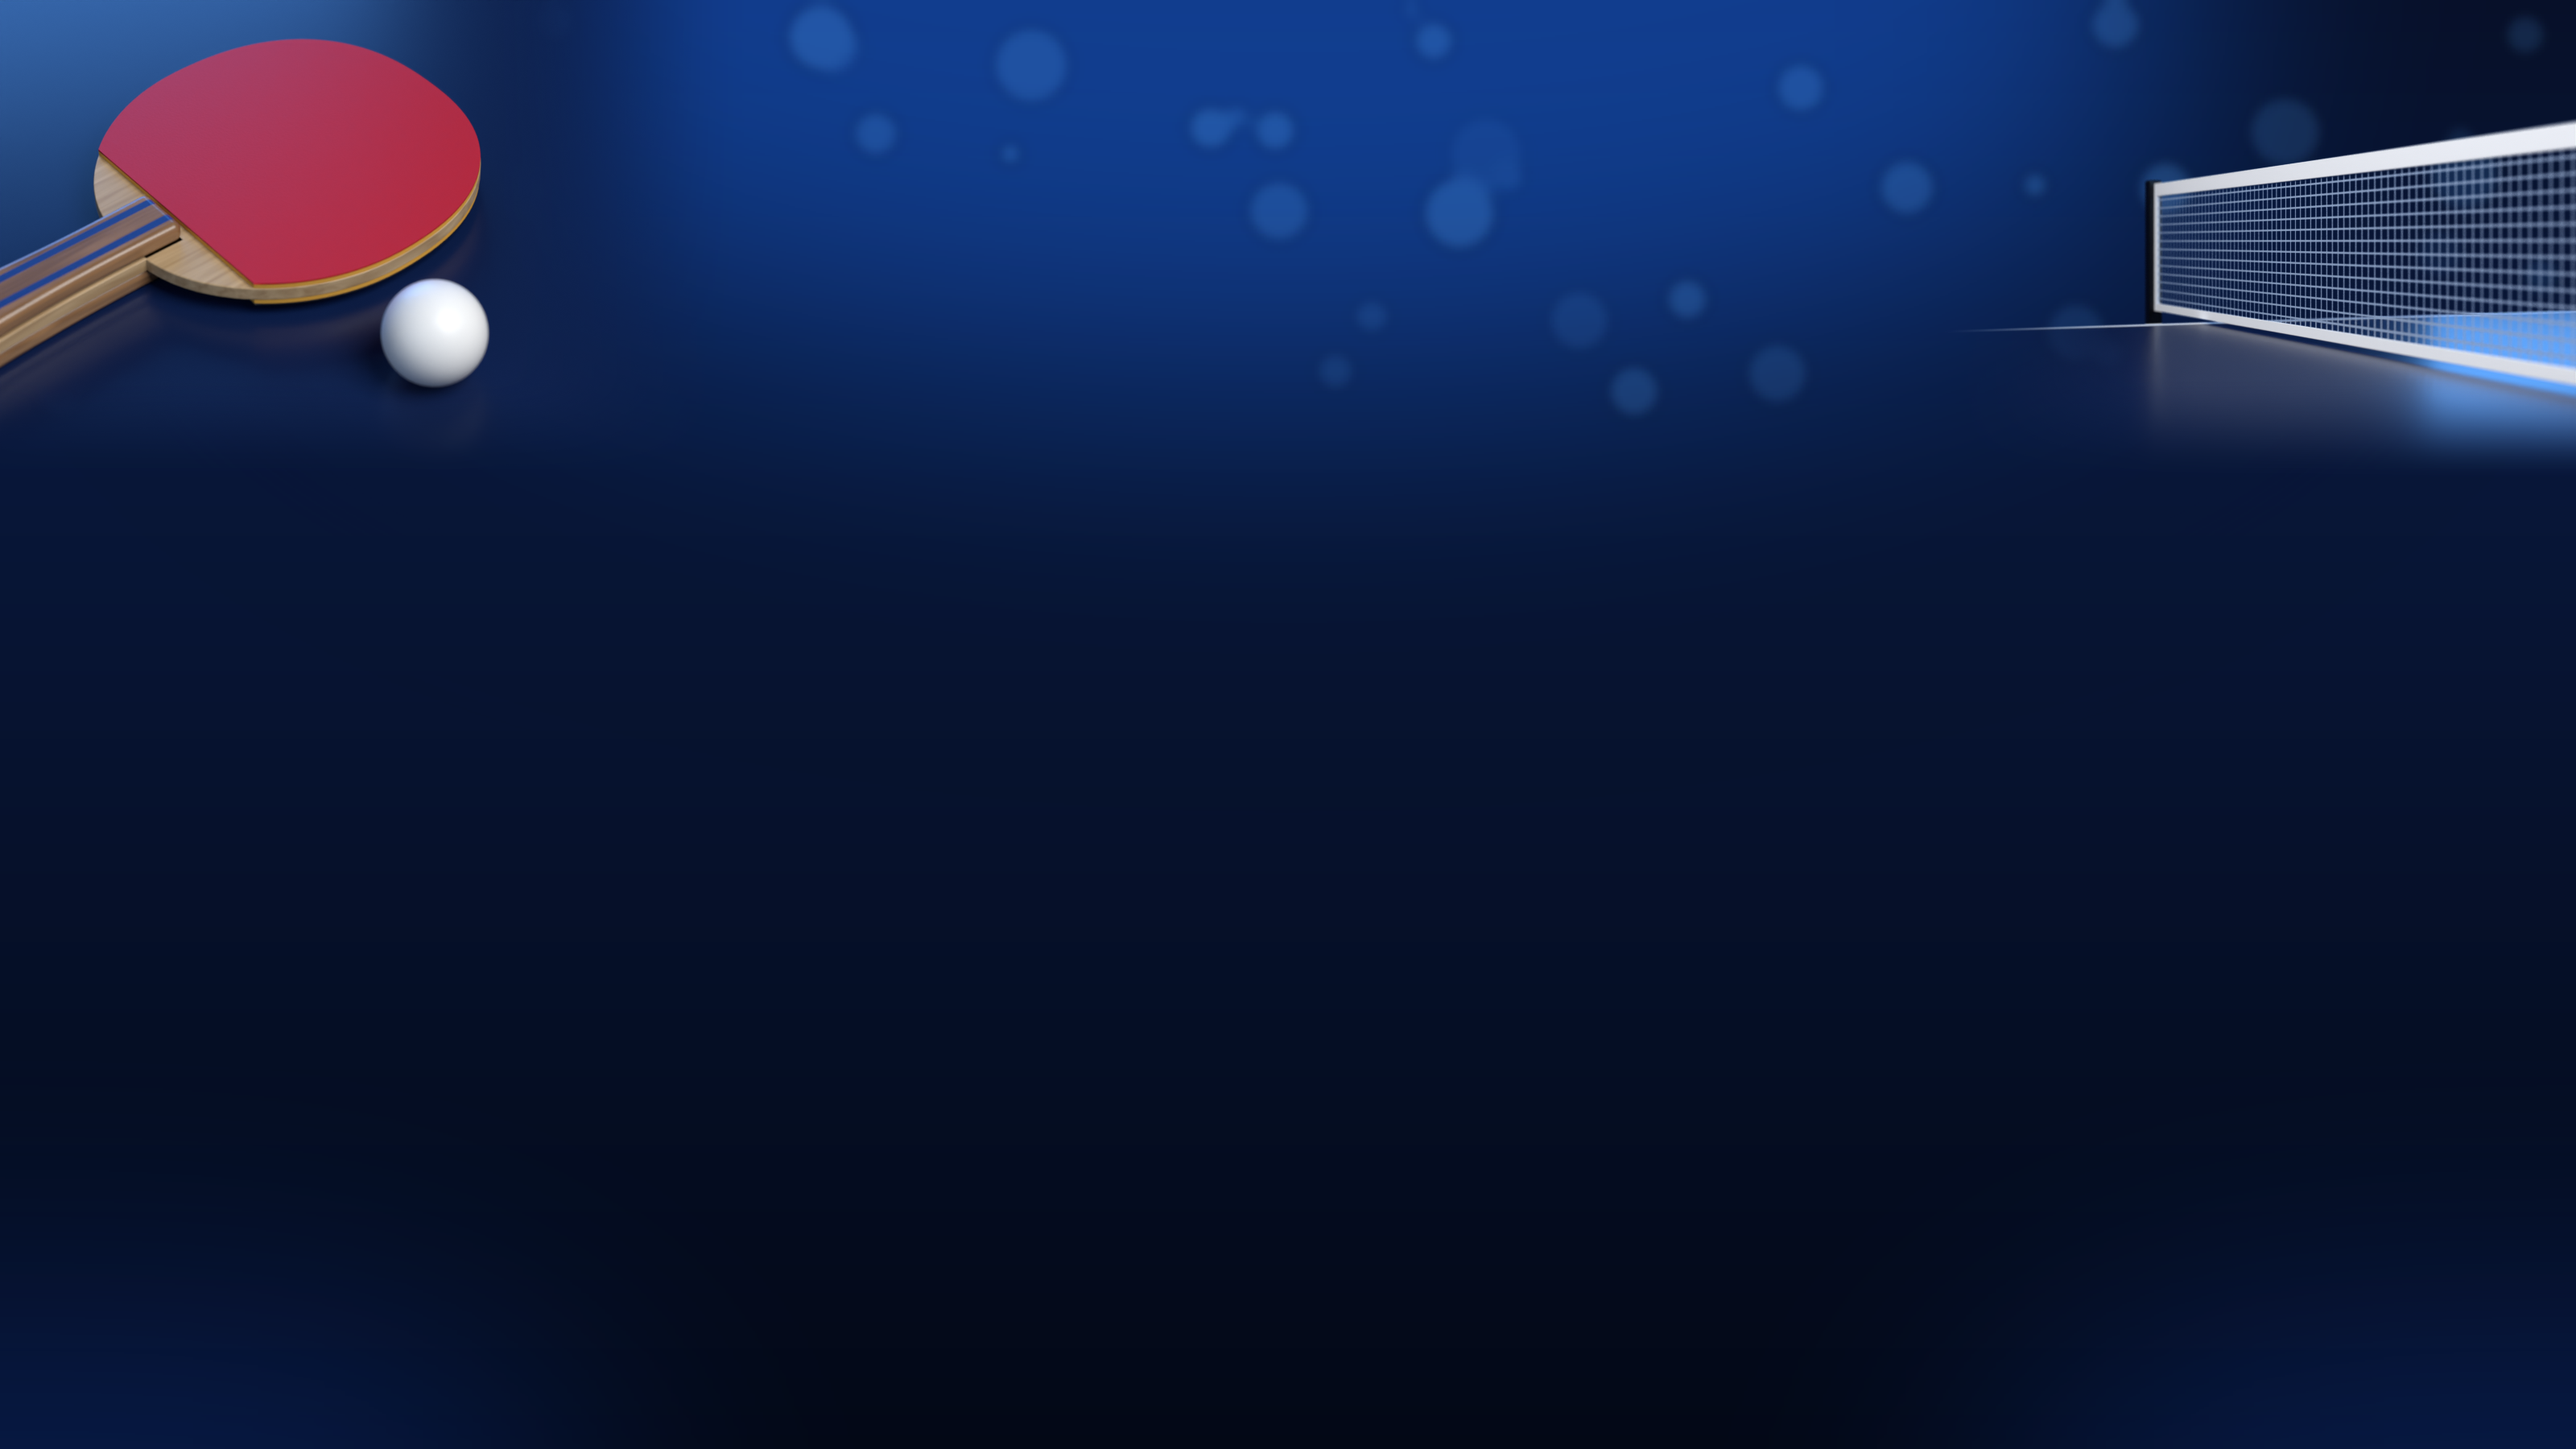
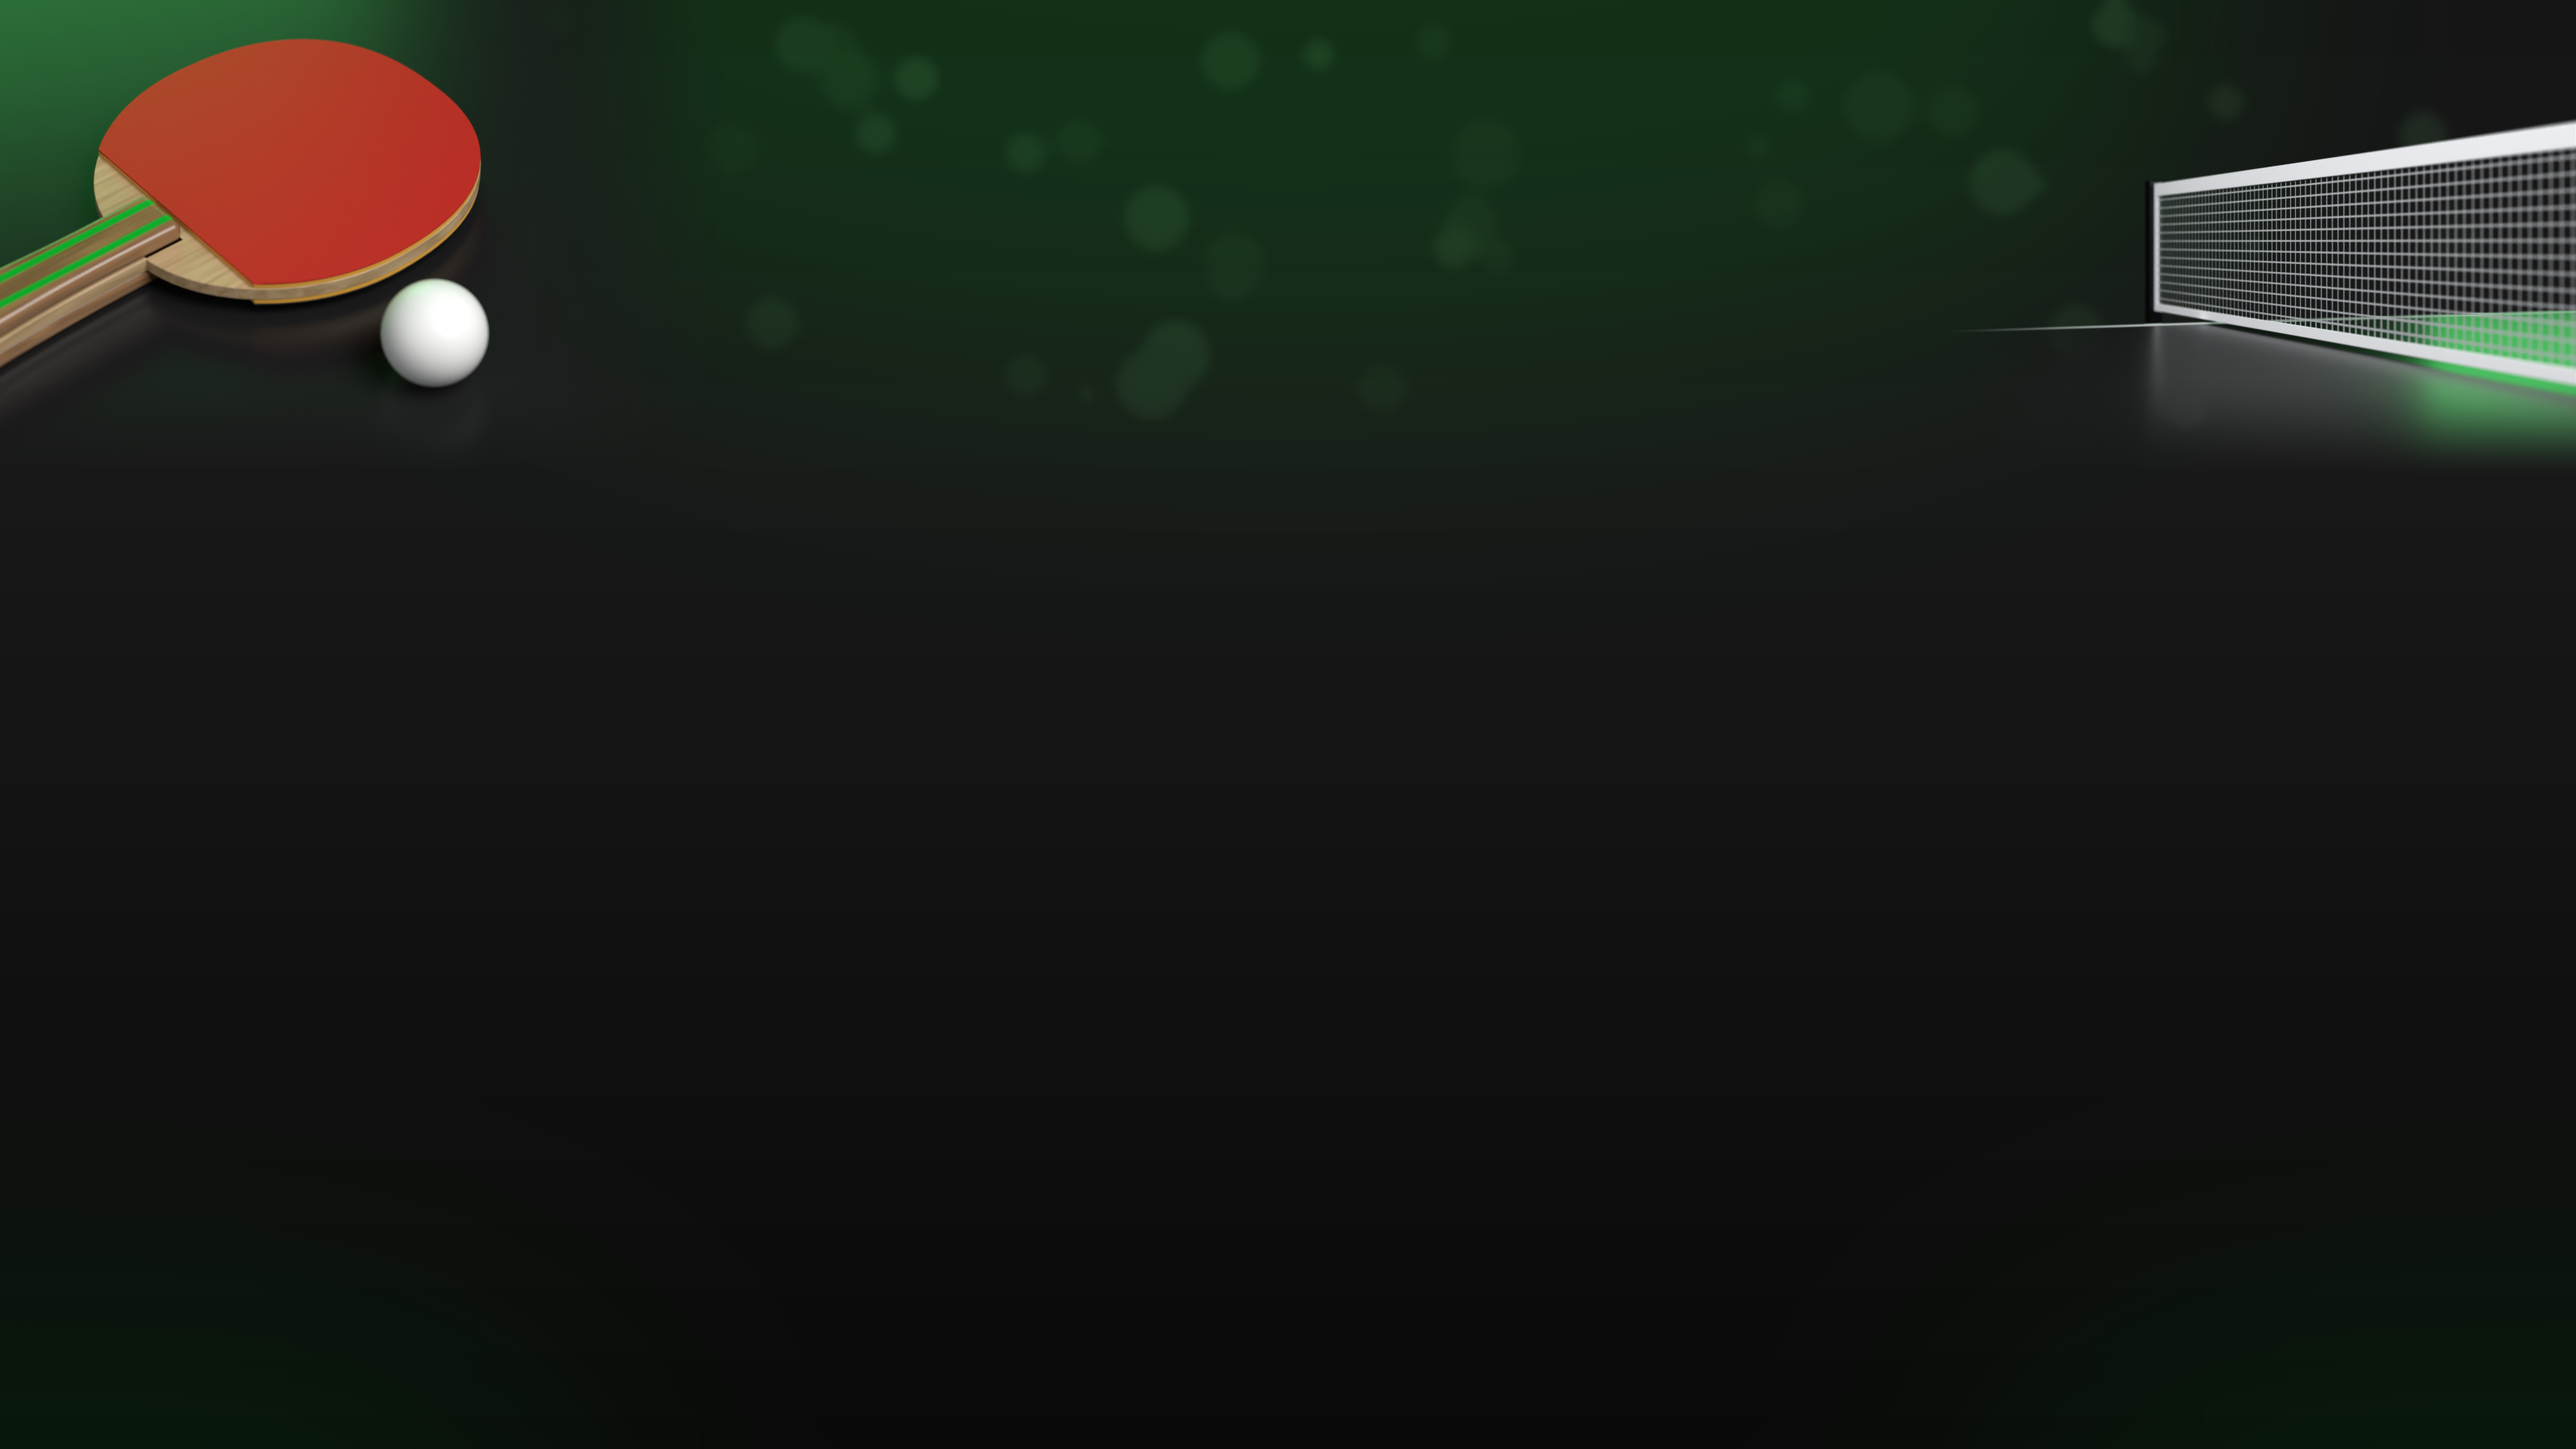
updated app

diff --git a/tt_picks_image.py b/tt_picks_image.py
@@ -44,7 +44,7 @@ from PIL import Image, ImageChops, ImageDraw, ImageFilter, ImageFont
 # ───────────────────────── EDIT THESE ─────────────────────────
 TITLE_LINE_1 = "THEPONGFATHER'S"
 TITLE_LINE_2 = "TABLE TENNIS"
-TITLE_ACCENT = "PICKS"  # gold word at the end of line 2
+TITLE_ACCENT = "PICKS"  # last word of line 2 (can be colored separately below)
 FOOTER_LEFT = "X.COM/BETTORMANPICKS"
 FOOTER_RIGHT = "BET RESPONSIBLY"
 EF_SUFFIX = "EF"
@@ -63,17 +63,29 @@ COLUMNS = {
     "matchup": ["Matchup", "Match", "Players"],
 }
 
-# Colors - every row uses the same ones
-BLUE = (46, 139, 255)
-BLUE_LT = (132, 200, 255)
-CYAN = (53, 195, 255)
-GOLD = (236, 178, 52)
-GOLD_LT = (255, 212, 110)
-TIME_GOLD = (255, 200, 61)
+# Colors - matched to the Bettor Man Picks banner (black + neon green + white)
+ACCENT = (0, 232, 44)          # box outlines, date pill, rules
+ACCENT_HI = (0, 255, 36)       # clock, VS, footer dot
+ACCENT_LT = (150, 255, 160)    # labels on green boxes
+ACCENT2 = (198, 202, 207)      # outlines of the alternate (silver) boxes
+ACCENT2_LT = (238, 240, 242)   # labels on silver boxes
+ROW_LINE = (0, 176, 40)        # outline of each match row
+TIME_COLOR = (0, 255, 36)
+LEAGUE_COLOR = (206, 210, 214)
 WHITE = (255, 255, 255)
-MUTED = (172, 192, 220)
-PANEL_FILL = (9, 20, 46, 232)
-BOX_FILL = (5, 13, 32, 240)
+MUTED = (172, 177, 182)
+PANEL_FILL = (17, 17, 17, 236)
+BOX_FILL = (5, 5, 5, 242)
+PILL_FILL = (9, 9, 9, 245)
+FOOTER_COLOR = (226, 229, 232)
+_GREEN_TEXT = ((196, 255, 176), (0, 224, 16), (0, 255, 40, 120))    # top, bottom, glow
+_WHITE_TEXT = ((255, 255, 255), (186, 192, 198), (255, 255, 255, 60))
+LINE1_TOP, LINE1_BOTTOM, LINE1_GLOW = _WHITE_TEXT   # "THEPONGFATHER'S"
+LINE2_TOP, LINE2_BOTTOM, LINE2_GLOW = _GREEN_TEXT   # "TABLE TENNIS"
+PICKS_TOP, PICKS_BOTTOM, PICKS_GLOW = _GREEN_TEXT   # "PICKS"
+TITLE_SHADOW = (0, 0, 0, 240)
+BG_TOP, BG_MID, BG_BOTTOM = (21, 21, 21), (25, 25, 25), (9, 9, 9)
+BG_GLOW = (0, 255, 40)         # soft glow behind the title and in the lower corners
 # ──────────────────────────────────────────────────────────────
 
 BASE_W, BASE_H = 1600, 900
@@ -301,7 +313,7 @@ def _background(W, H):
     """Soft background, built at 1x and upscaled by the caller."""
     img = Image.new("RGB", (W, H))
     d = ImageDraw.Draw(img)
-    top, mid, bot = (7, 16, 42), (8, 23, 58), (3, 8, 22)
+    top, mid, bot = BG_TOP, BG_MID, BG_BOTTOM
     for y in range(H):
         t = y / (H - 1)
         c = _lerp(top, mid, t / 0.3) if t < 0.3 else _lerp(mid, bot, (t - 0.3) / 0.7)
@@ -310,9 +322,9 @@ def _background(W, H):
 
     glow = _layer((W, H))
     g = ImageDraw.Draw(glow)
-    g.ellipse((W / 2 - 640, -150, W / 2 + 640, 300), fill=(28, 112, 255, 120))
-    g.ellipse((-260, H - 150, 460, H + 220), fill=(20, 84, 225, 70))
-    g.ellipse((W - 460, H - 150, W + 260, H + 220), fill=(20, 84, 225, 70))
+    g.ellipse((W / 2 - 640, -150, W / 2 + 640, 300), fill=BG_GLOW + (30,))
+    g.ellipse((-260, H - 150, 460, H + 220), fill=BG_GLOW + (20,))
+    g.ellipse((W - 460, H - 150, W + 260, H + 220), fill=BG_GLOW + (20,))
     img.alpha_composite(glow.filter(ImageFilter.GaussianBlur(110)))
 
     rnd = random.Random(7)  # fixed seed: same background every day
@@ -320,8 +332,8 @@ def _background(W, H):
     b = ImageDraw.Draw(bokeh)
     for _ in range(54):
         x, y = rnd.uniform(0, W), rnd.uniform(-10, 255)
-        r, a = rnd.uniform(5, 24), rnd.randint(16, 58)
-        b.ellipse((x - r, y - r, x + r, y + r), fill=(96, 176, 255, a))
+        r, a = rnd.uniform(5, 24), rnd.randint(6, 22)
+        b.ellipse((x - r, y - r, x + r, y + r), fill=ACCENT_LT + (a,))
     img.alpha_composite(bokeh.filter(ImageFilter.GaussianBlur(4)))
     return img
 
@@ -351,7 +363,7 @@ def _net(W, k):
     def bot(x):
         return h + (x - xl) / (xr - xl) * 24
 
-    mesh = (176, 208, 255, 84)
+    mesh = (205, 208, 212, 84)
     x = xl
     while x <= xr:
         d.line([(x * k, top(x) * k), (x * k, bot(x) * k)], fill=mesh, width=k)
@@ -485,8 +497,8 @@ def render_picks(matches, picks_date=None, out_path=None, scale: float = 1, stat
     a = ImageDraw.Draw(acc)
     for off, alpha, wd in ((0, 210, 3), (16, 120, 2)):
         if not photo:
-            a.line([(P(-10), P(128 + off)), (P(128 + off), P(-10))], fill=GOLD + (alpha,), width=wd * k // 2 + 1)
-        a.line([(P(W + 10), P(H - 128 - off)), (P(W - 128 - off), P(H + 10))], fill=GOLD + (alpha,), width=wd * k // 2 + 1)
+            a.line([(P(-10), P(128 + off)), (P(128 + off), P(-10))], fill=ACCENT + (alpha,), width=wd * k // 2 + 1)
+        a.line([(P(W + 10), P(H - 128 - off)), (P(W - 128 - off), P(H + 10))], fill=ACCENT + (alpha,), width=wd * k // 2 + 1)
     img.alpha_composite(acc)
 
     if not photo:  # no background.png: fall back to the drawn net, paddle and ball
@@ -507,19 +519,18 @@ def render_picks(matches, picks_date=None, out_path=None, scale: float = 1, stat
 
     halo = _layer(size)
     hd = ImageDraw.Draw(halo)
-    hd.text((x1, y1), TITLE_LINE_1, font=tf1, fill=(30, 130, 255, 150), anchor="ls")
-    hd.text((x2, y2), TITLE_LINE_2, font=tf, fill=(30, 130, 255, 150), anchor="ls")
-    hd.text((x2 + w2a, y2), TITLE_ACCENT, font=tf, fill=(255, 170, 30, 130), anchor="ls")
+    hd.text((x1, y1), TITLE_LINE_1, font=tf1, fill=LINE1_GLOW, anchor="ls")
+    hd.text((x2, y2), TITLE_LINE_2, font=tf, fill=LINE2_GLOW, anchor="ls")
+    hd.text((x2 + w2a, y2), TITLE_ACCENT, font=tf, fill=PICKS_GLOW, anchor="ls")
     img.alpha_composite(halo.filter(ImageFilter.GaussianBlur(P(13))))
     shadow = _layer(size)
     sd = ImageDraw.Draw(shadow)
     for (tx, ty, txt, f) in ((x1, y1, TITLE_LINE_1, tf1), (x2, y2, line2, tf)):
-        sd.text((tx + P(2), ty + P(4)), txt, font=f, fill=(2, 6, 20, 235), anchor="ls")
+        sd.text((tx + P(2), ty + P(4)), txt, font=f, fill=TITLE_SHADOW, anchor="ls")
     img.alpha_composite(shadow.filter(ImageFilter.GaussianBlur(P(1.5))))
-    blue_top, blue_bot = (150, 230, 255), (24, 122, 255)
-    _gradient_text(img, (x1, y1), TITLE_LINE_1, tf1, blue_top, blue_bot)
-    _gradient_text(img, (x2, y2), TITLE_LINE_2, tf, blue_top, blue_bot)
-    _gradient_text(img, (x2 + w2a, y2), TITLE_ACCENT, tf, (255, 236, 140), (245, 158, 11))
+    _gradient_text(img, (x1, y1), TITLE_LINE_1, tf1, LINE1_TOP, LINE1_BOTTOM)
+    _gradient_text(img, (x2, y2), TITLE_LINE_2, tf, LINE2_TOP, LINE2_BOTTOM)
+    _gradient_text(img, (x2 + w2a, y2), TITLE_ACCENT, tf, PICKS_TOP, PICKS_BOTTOM)
 
     # ── date pill ──
     d = ImageDraw.Draw(img)
@@ -530,16 +541,16 @@ def render_picks(matches, picks_date=None, out_path=None, scale: float = 1, stat
     cut = P(16)
     pill = [(px0 + cut, py - ph / 2), (px1 - cut, py - ph / 2), (px1, py), (px1 - cut, py + ph / 2),
             (px0 + cut, py + ph / 2), (px0, py)]
-    d.polygon(pill, fill=(6, 16, 40, 245))
-    d.line(pill + [pill[0], pill[1]], fill=BLUE, width=P(2), joint="curve")
+    d.polygon(pill, fill=PILL_FILL)
+    d.line(pill + [pill[0], pill[1]], fill=ACCENT, width=P(2), joint="curve")
     d.text((cx, py), dtxt, font=df, fill=WHITE, anchor="mm")
     line_len = P(250)
     fade = _layer(size)
     fd = ImageDraw.Draw(fade)
     for i in range(line_len):
         al = int(235 * (1 - i / line_len))
-        fd.line([(px0 - P(14) - i, py - P(1)), (px0 - P(14) - i, py + P(1))], fill=GOLD + (al,))
-        fd.line([(px1 + P(14) + i, py - P(1)), (px1 + P(14) + i, py + P(1))], fill=GOLD + (al,))
+        fd.line([(px0 - P(14) - i, py - P(1)), (px0 - P(14) - i, py + P(1))], fill=ACCENT + (al,))
+        fd.line([(px1 + P(14) + i, py - P(1)), (px1 + P(14) + i, py + P(1))], fill=ACCENT + (al,))
     img.alpha_composite(fade)
 
     # ── rows ──
@@ -549,7 +560,7 @@ def render_picks(matches, picks_date=None, out_path=None, scale: float = 1, stat
     gd = ImageDraw.Draw(glow)
     for i in range(n):
         y0 = rows_top + i * (row_h + ROW_GAP)
-        gd.rounded_rectangle((P(X0), P(y0), P(X1), P(y0 + row_h)), radius=P(16), outline=BLUE + (190,), width=P(5))
+        gd.rounded_rectangle((P(X0), P(y0), P(X1), P(y0 + row_h)), radius=P(16), outline=ROW_LINE + (150,), width=P(5))
     img.alpha_composite(glow.filter(ImageFilter.GaussianBlur(P(7))))
 
     panel = _layer(size)
@@ -582,18 +593,18 @@ def render_picks(matches, picks_date=None, out_path=None, scale: float = 1, stat
         y0 = rows_top + i * (row_h + ROW_GAP)
         mid = y0 + row_h / 2
         d.rounded_rectangle((P(X0), P(y0), P(X1), P(y0 + row_h)), radius=P(16), fill=PANEL_FILL,
-                            outline=BLUE, width=P(2))
-        _clock(d, P(X0 + 52), P(mid), P(25 * s), k, CYAN)
-        d.text((P(X0 + 96), P(mid - 11 * s)), _time(m.get("time")), font=f_time, fill=TIME_GOLD, anchor="lm")
-        d.text((P(X0 + 98), P(mid + 25 * s)), str(m.get("league", "")), font=f_league, fill=BLUE_LT, anchor="lm")
-        d.line([(P(286), P(y0 + 16 * s)), (P(286), P(y0 + row_h - 16 * s))], fill=BLUE + (150,), width=P(1.5))
+                            outline=ROW_LINE, width=P(2))
+        _clock(d, P(X0 + 52), P(mid), P(25 * s), k, ACCENT_HI)
+        d.text((P(X0 + 96), P(mid - 11 * s)), _time(m.get("time")), font=f_time, fill=TIME_COLOR, anchor="lm")
+        d.text((P(X0 + 98), P(mid + 25 * s)), str(m.get("league", "")), font=f_league, fill=LEAGUE_COLOR, anchor="lm")
+        d.line([(P(286), P(y0 + 16 * s)), (P(286), P(y0 + row_h - 16 * s))], fill=ROW_LINE + (170,), width=P(1.5))
 
         name_cx, name_w = P(473), P(340)
         p1, p2 = str(m.get("p1", "")), str(m.get("p2", ""))
         f_name = _fit(F_BOLD, max((p1, p2), key=len), 25 * s * k, name_w)
         f_name = _fit(F_BOLD, min((p1, p2), key=len), f_name.size, name_w)
         d.text((name_cx, P(mid - 26 * s)), p1, font=f_name, fill=WHITE, anchor="mm")
-        d.text((name_cx, P(mid)), "VS", font=f_vs, fill=CYAN, anchor="mm")
+        d.text((name_cx, P(mid)), "VS", font=f_vs, fill=ACCENT_HI, anchor="mm")
         d.text((name_cx, P(mid + 26 * s)), p2, font=f_name, fill=WHITE, anchor="mm")
 
         by0, by1 = y0 + 10 * s, y0 + row_h - 10 * s
@@ -601,7 +612,7 @@ def render_picks(matches, picks_date=None, out_path=None, scale: float = 1, stat
             main, sub = texts[i][j]
             bx0 = box_x0 + j * (box_w + box_gap)
             bcx = P(bx0 + box_w / 2)
-            line_c, label_c = (BLUE, BLUE_LT) if j % 2 == 0 else (GOLD, GOLD_LT)
+            line_c, label_c = (ACCENT, ACCENT_LT) if j % 2 == 0 else (ACCENT2, ACCENT2_LT)
             d.rounded_rectangle((P(bx0), P(by0), P(bx0 + box_w), P(by1)), radius=P(11), fill=BOX_FILL,
                                 outline=line_c, width=P(2))
             d.text((bcx, P(by0 + 16 * s)), label, font=label_fonts[j], fill=label_c, anchor="mm")
@@ -620,19 +631,19 @@ def render_picks(matches, picks_date=None, out_path=None, scale: float = 1, stat
     sep_w = P(54)
     wl, wr = _tracked_width(FOOTER_LEFT, ff, tr), _tracked_width(FOOTER_RIGHT, ff, tr)
     fx = P(W / 2) - (wl + sep_w + wr) / 2
-    foot_c = (198, 222, 255)
+    foot_c = FOOTER_COLOR
     end = _draw_tracked(d, fx, fy, FOOTER_LEFT, ff, foot_c, tr)
     dot_x, dot_r = fx + wl + sep_w / 2, P(4.5)
-    d.ellipse((dot_x - dot_r, fy - dot_r, dot_x + dot_r, fy + dot_r), fill=GOLD_LT)
+    d.ellipse((dot_x - dot_r, fy - dot_r, dot_x + dot_r, fy + dot_r), fill=ACCENT_HI)
     _draw_tracked(d, fx + wl + sep_w, fy, FOOTER_RIGHT, ff, foot_c, tr)
     rule = _layer(size)
     rd = ImageDraw.Draw(rule)
     rl = P(220)
     for i in range(rl):
         al = int(220 * (1 - i / rl))
-        rd.line([(fx - P(24) - i, fy - P(1)), (fx - P(24) - i, fy + P(1))], fill=GOLD + (al,))
+        rd.line([(fx - P(24) - i, fy - P(1)), (fx - P(24) - i, fy + P(1))], fill=ACCENT + (al,))
         xr = fx + wl + sep_w + wr + P(24) + i
-        rd.line([(xr, fy - P(1)), (xr, fy + P(1))], fill=GOLD + (al,))
+        rd.line([(xr, fy - P(1)), (xr, fy + P(1))], fill=ACCENT + (al,))
     img.alpha_composite(rule)
 
     out = img.convert("RGB").resize((int(W * scale), int(H * scale)), Image.LANCZOS)
